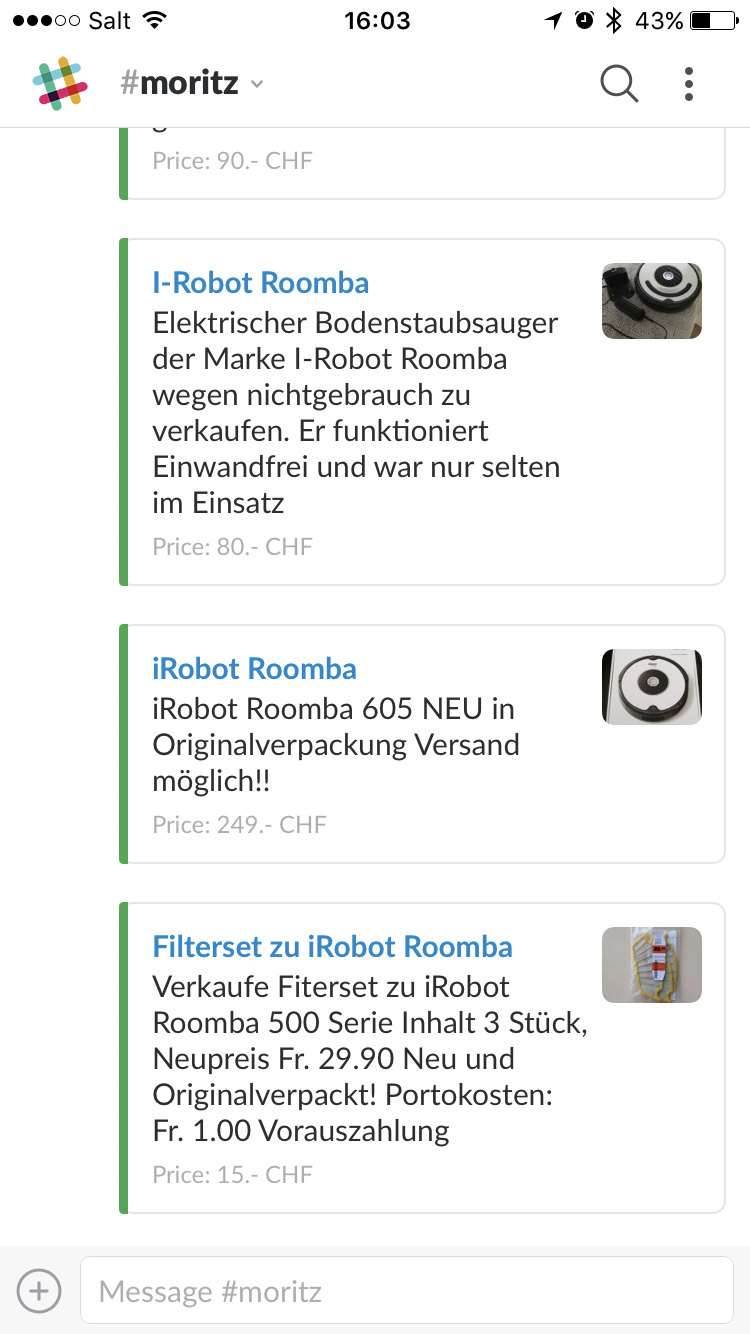
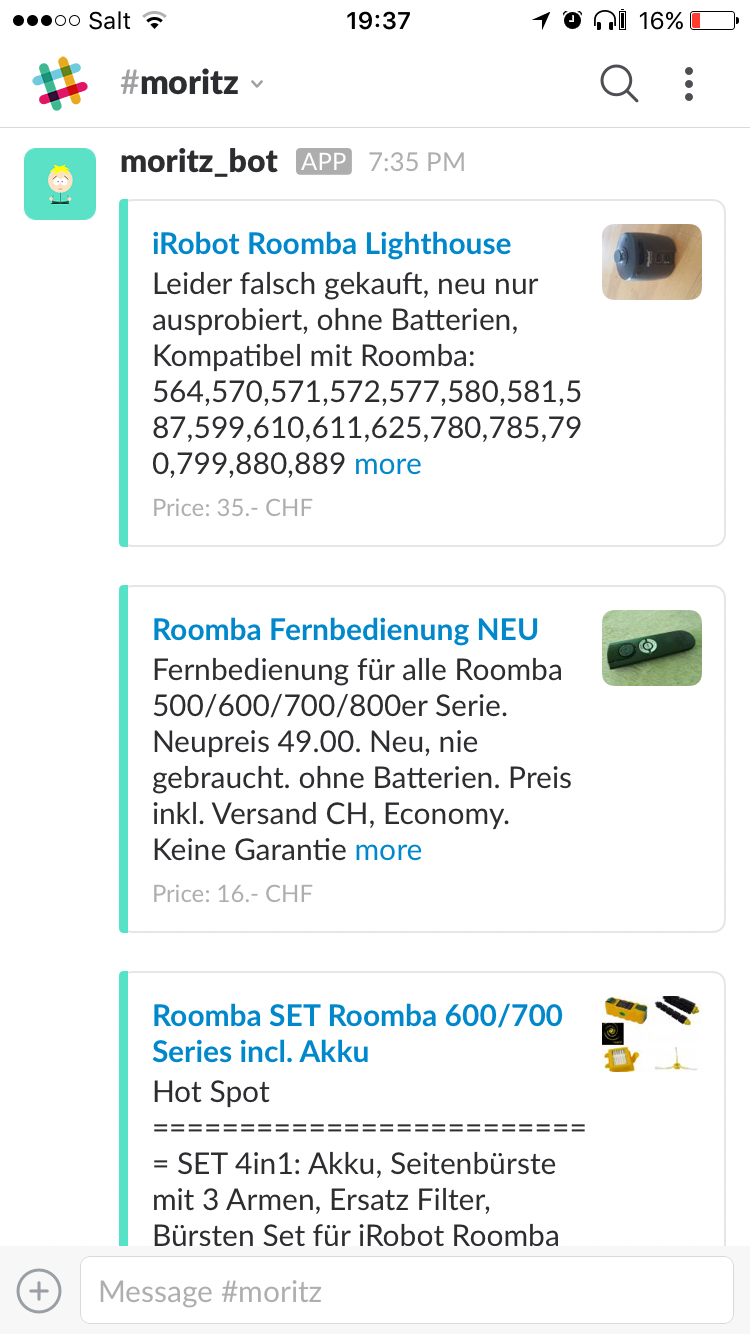
Proper bot user moritz_bot

diff --git a/moritz.py b/moritz.py
@@ -104,7 +104,7 @@ def notify_offers_in_slack(slack, offers):
         text = '{} <{}|more>'.format(offer.get('description'), offer.get('link'))
 
         attachments = [{
-            'color': "#36a64f",
+            'color': "#55E3C7",
             'title': offer.get('title'),
             'title_link': offer.get('link'),
             'thumb_url': offer.get('thumb_url'),
@@ -114,7 +114,7 @@ def notify_offers_in_slack(slack, offers):
 
         slack.chat.post_message(
             channel='#{}'.format(channel),
-            as_user='moritz',
+            as_user='moritz_bot',
             attachments=attachments
         )
 
